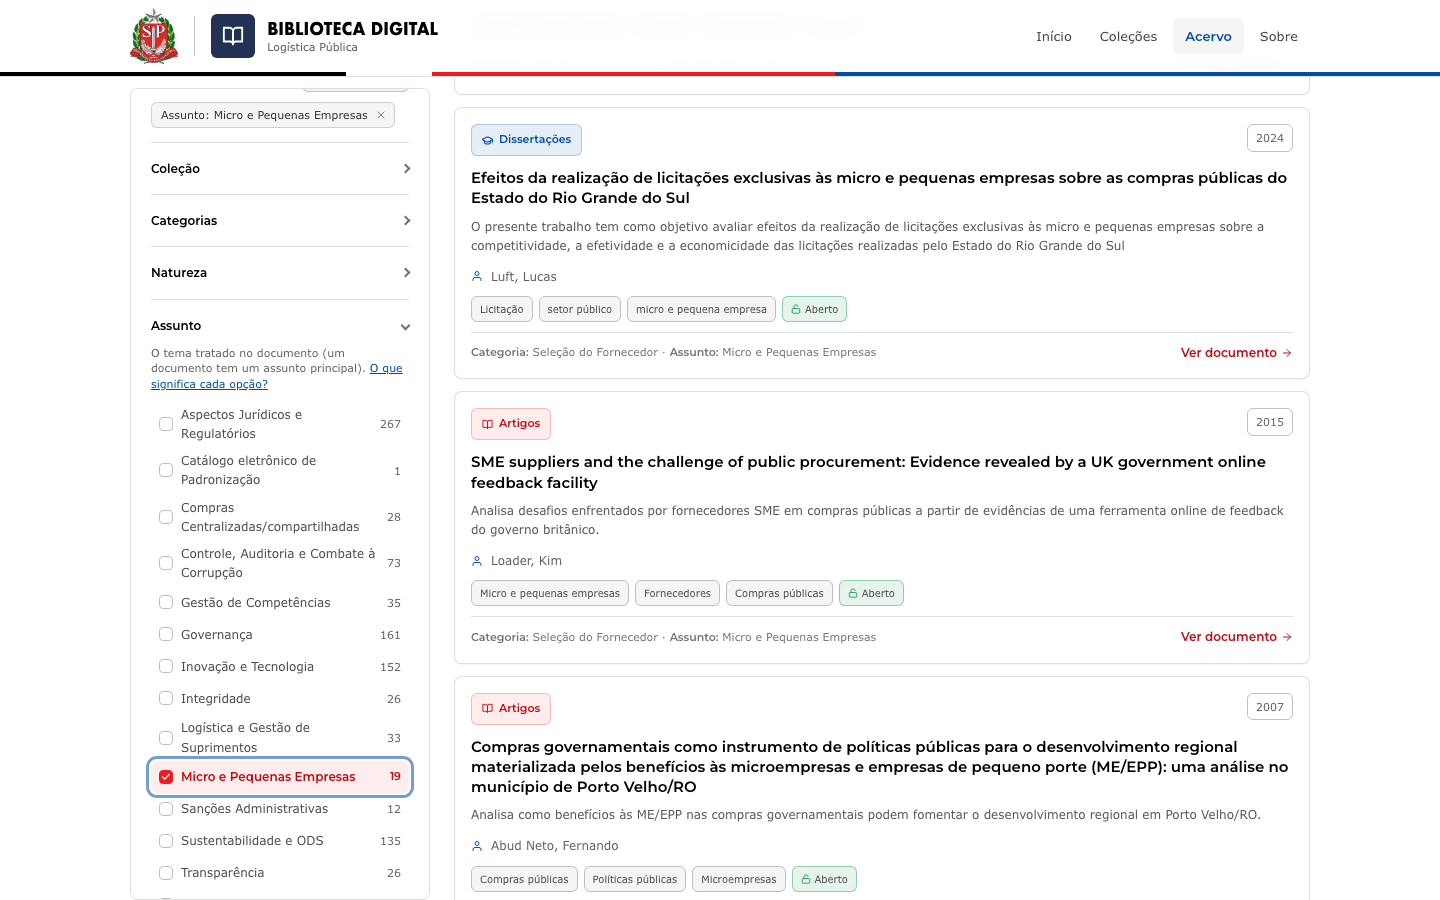
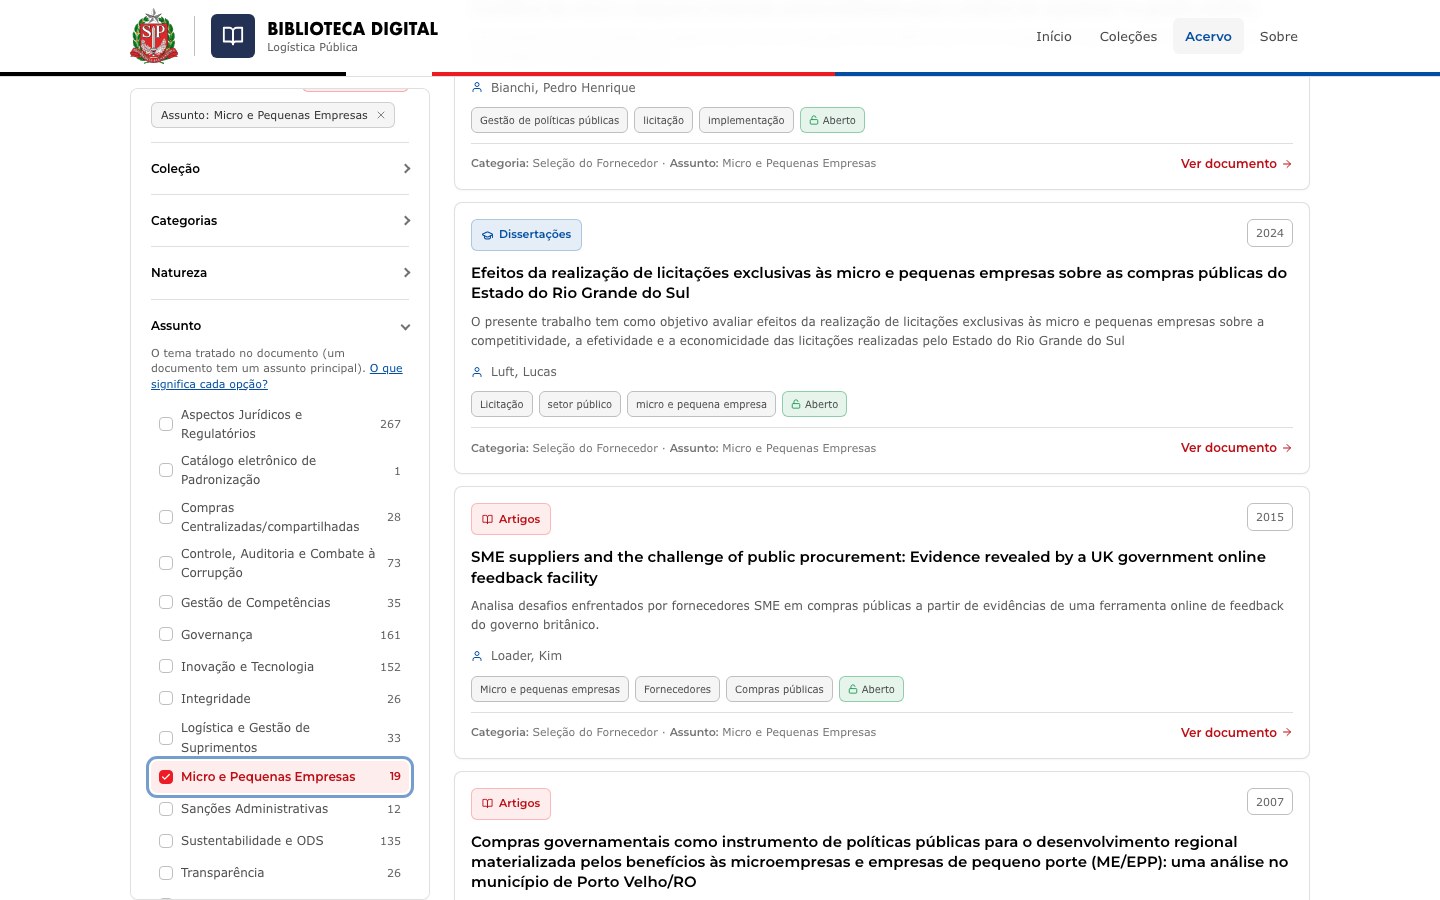
fix(acervo): linha de estado dos resultados sempre presente — a grade não desce ao filtrar
Bernardo (15/09/2026): "de vez em quando joga para baixo". Diagnóstico
com Playwright (matriz de cenários, Chromium e WebKit): a janela e a barra
já ficavam paradas, mas a linha "Filtrando por …" era inserida entre a
barra de resultados e a grade só quando havia filtro (e "Pesquisa por …"
só com busca) — no primeiro filtro os cartões desciam ~33 px e, ao
remover o último, subiam.

- search.html: uma única <p class="query-indicator"> sempre presente, com
  o estado corrente — "Mostrando todo o acervo" sem filtro nem busca;
  "Pesquisa por “q” · Filtrando por …" quando há. O topo da grade fica no
  lugar (diagnóstico: cardTop estável ao marcar, ao desmarcar o último
  filtro e na cascata de categoria; rótulo tocado estável).
- evidencias_playwright.py: verificação cartoes_nao_se_movem (desktop e
  mobile), além de filtro_tocado_nao_se_move.
- Teste de contrato: a <p> não é condicional e traz os três estados (141 testes).

Inerente e não tratado: a quebra de linha de uma lista longa de filtros
ainda muda a altura da linha de estado.

Changed region(s): [[0.3125, 0.0933, 0.9062, 0.9956], [0.875, 0.7778, 0.9062, 0.8089]]

diff --git a/portal/templates/search.html b/portal/templates/search.html
@@ -161,13 +161,15 @@
         </label>
       </div>
 
-      {% if query %}
-      <p class="query-indicator">Pesquisa por <strong>“{{ query }}”</strong></p>
-      {% endif %}
-      {% if filtros_count %}
-      {% applied_filters request.GET as chips %}
-      <p class="query-indicator">Filtrando por <strong>{% for c in chips %}{{ c.texto }}{% if not forloop.last %} · {% endif %}{% endfor %}</strong></p>
-      {% endif %}
+      {# Linha de estado SEMPRE presente (15/09/2026): quando ela era inserida só com
+         filtro/busca, a grade de resultados descia ~33 px no primeiro filtro e subia ao
+         remover o último — "de vez em quando joga para baixo". Uma única <p> com o
+         estado corrente mantém o topo da grade no lugar. #}
+      <p class="query-indicator">
+        {% if query %}Pesquisa por <strong>“{{ query }}”</strong>{% if filtros_count %} · {% endif %}{% endif %}
+        {% if filtros_count %}{% applied_filters request.GET as chips %}Filtrando por <strong>{% for c in chips %}{{ c.texto }}{% if not forloop.last %} · {% endif %}{% endfor %}</strong>{% endif %}
+        {% if not query and not filtros_count %}Mostrando todo o acervo{% endif %}
+      </p>
 
       {% if page_obj.object_list %}
       <div class="doc-grid">

diff --git a/tools/evidencias_playwright.py b/tools/evidencias_playwright.py
@@ -106,12 +106,18 @@ def cena_filtro_desktop_js(page: Page, base: str, out: Path, suffix: str, cena: 
     page.evaluate("window.__marcador_sem_reload = true")
     label = _label_assunto(page)
     top_antes = label.bounding_box()["y"]
+    card_antes = page.evaluate("document.querySelector('.doc-grid .doc-card').getBoundingClientRect().top")
     label.click()
     # Aguarda a atualização: com fetch, a URL muda sem navegação; sem, a página recarrega.
     page.wait_for_url("**/busca/?**assunto_id=**", timeout=10000)
     page.wait_for_load_state("networkidle")
     page.wait_for_timeout(300)
     scroll_depois = page.evaluate("window.scrollY")
+    # 15/09: o topo da grade de resultados também não se move (a linha de estado
+    # "Filtrando por …" existe sempre, em vez de ser inserida no primeiro filtro).
+    card_depois = page.evaluate("document.querySelector('.doc-grid .doc-card').getBoundingClientRect().top")
+    cena.check("cartoes_nao_se_movem", abs(card_depois - card_antes) <= 2,
+               f"top do 1º cartão antes={card_antes:.0f} depois={card_depois:.0f}")
     # 15/09: o controle tocado continua no mesmo lugar da tela (o bloco "Seus
     # filtros" entra acima dele e a barra compensa na rolagem própria).
     top_depois = _label_assunto(page).bounding_box()["y"]

diff --git a/portal/catalog/tests/test_filtros_sem_voltar_ao_topo.py b/portal/catalog/tests/test_filtros_sem_voltar_ao_topo.py
@@ -114,6 +114,20 @@ def test_js_compensa_o_deslocamento_da_barra_lateral():
     assert "getBoundingClientRect" in JS
 
 
+def test_linha_de_estado_dos_resultados_sempre_presente():
+    # 15/09 ("de vez em quando joga para baixo"): a linha "Filtrando por …" era
+    # inserida entre a barra de resultados e a grade só quando havia filtro, e os
+    # cartões desciam ~33 px no primeiro filtro (subiam ao remover o último). A
+    # linha de estado passa a existir sempre — "Mostrando todo o acervo" sem
+    # filtro nem busca — numa única <p>, para o topo da grade não se mover.
+    t = _template("search.html")
+    assert t.count('class="query-indicator"') == 1
+    bloco = t[t.index('class="query-indicator"') - 200: t.index('class="query-indicator"')]
+    assert "{% if query %}" not in bloco and "{% if filtros_count %}" not in bloco   # a <p> não é condicional
+    assert "Mostrando todo o acervo" in t
+    assert "Pesquisa por" in t and "Filtrando por" in t
+
+
 def test_js_sem_caminho_chumbado_nem_handler_inline():
     assert "/busca/" not in JS
     assert "/static/" not in JS

diff --git a/docs/specs/2026-09-14-validacao-subsecretario-plataforma.md b/docs/specs/2026-09-14-validacao-subsecretario-plataforma.md
@@ -48,6 +48,8 @@
 
 **Ajuste de 15/09/2026 (Bernardo: "a página sobe um pouquinho").** Medido com Playwright: nem a janela nem a rolagem interna da barra mudavam, mas o bloco "Seus filtros" entra/sai acima da lista dentro da barra e o checkbox tocado se deslocava ~97 px na tela (subia ao desmarcar o último filtro). Correção em `acervo-filters.js`: a troca ancora o primeiro título de faceta, preserva `sidebar.scrollTop` e compensa a diferença na rolagem própria da barra (sticky no desktop, drawer no mobile) — a janela não se move; a restauração da janela passou a ser instantânea (`behavior: "instant"`), porque o `html` tem `scroll-behavior: smooth` e um ajuste animado apareceria como deslize. Verificação nova `filtro_tocado_nao_se_move` (desktop 761 → 761 px; mobile 615 → 614). Residual só quando a barra não tem rolagem própria (conteúdo menor que a viewport) ou já está no topo ao desmarcar.
 
+**Segundo ajuste de 15/09/2026 ("de vez em quando joga para baixo").** A linha "Filtrando por …" (e "Pesquisa por …") era inserida entre a barra de resultados e a grade só quando havia filtro/busca: no primeiro filtro os cartões desciam ~33 px e, ao remover o último, subiam. A linha de estado passou a existir sempre, numa única `<p class="query-indicator">` — "Mostrando todo o acervo" sem filtro nem busca; "Pesquisa por … · Filtrando por …" quando há — e o topo da grade não se move (verificação `cartoes_nao_se_movem`). Só a quebra de linha de uma lista longa de filtros ainda muda a altura (inerente).
+
 ## T2 — Os dois eixos no cartão e na página do documento
 
 **Decisão.** Rodapé do cartão: `Etapa: <Categoria › Subcategoria> · Assunto: <Assunto>`, rótulos em texto, mesma tipografia (11px, cor 0.55); cada eixo trunca por si e o segundo desce de linha quando não cabem juntos, para o Assunto nunca sumir no mobile. Sem categoria → só o Assunto; sem Assunto → nome da coleção. `classificacao_card` (simple_tag pura) resolve pelos mapas cacheados — zero query por cartão (medido: `/busca/` 17 → 17 queries, home 36 → 36, documento 13 → 13). Página do documento: badge "Etapa: …" (ícone `fi-layers` do sprite), fórmula da Lina em Linguagem Simples sob "Classificação BDLP", rótulo "Etapa (categoria processual)" só na exibição. Hints das facetas amarrando etapa/categoria e assunto/tema.
